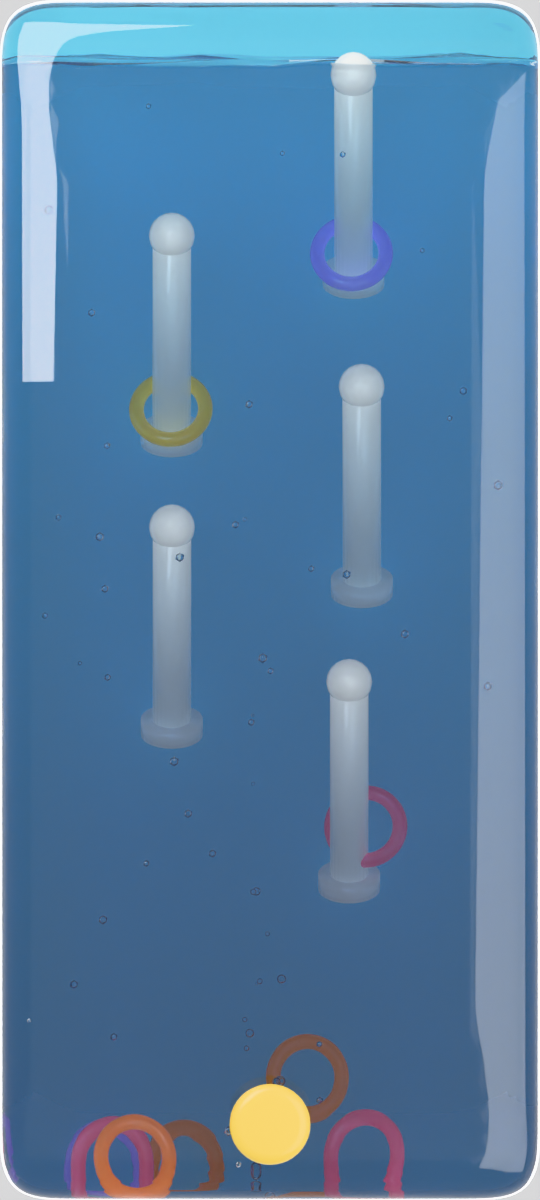
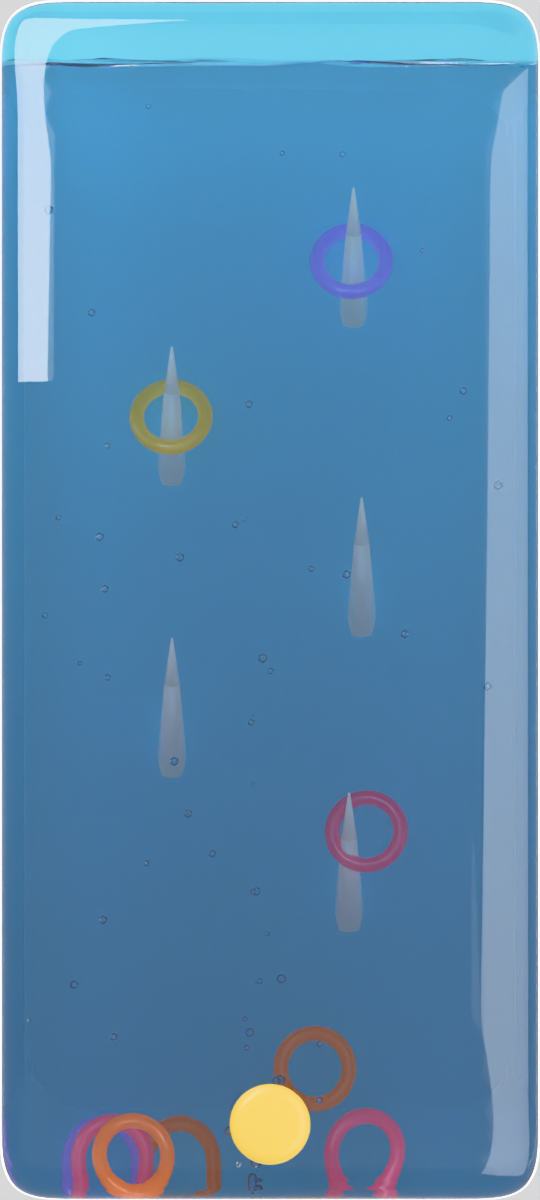
Make the pegs slim spikes instead of posts with knobs on
The knob had a job — it was what a ring had to climb over to leave by the
front — but a taper does that job better and does not look like that. A ring
dropped over a point slides down until the shaft is as wide as its hole and
stops there, so nothing needs a bulb on the end, and landing gets much
easier: the target grows as the ring descends instead of having to be
cleared in one go. Measured over a loop, the board went from changing twice
to changing eight times.

The first attempt was a single cone from base to point, and it was worse
than what it replaced. Only the fat end is thick enough to see through the
water, so each peg read as a squat blob with a needle above it that nobody
could make out. So the profile is two segments: near-parallel for the first
two thirds, which is what makes the whole length visible, and the taper
confined to the last third, which is what makes it read as pointed.

Much thinner with it. The base is 0.58 of a ring's hole where the old shaft
was 0.72 and the old collar 1.16, so the widest part of a peg is now half
what it was, and the length comes down with the chamber depth that pays for
it. Rings seat near the base rather than a third of the way up.

--hook-fit and --hook-grip are gone; --hook-base, --hook-point and
--hook-seat replace them. All three are still expressed against the ring's
hole, because all three are really statements about the ring.

Seam still closes to 0.7mm and 0.0 degrees, the --shell path still builds,
[…]

diff --git a/blender/water_ring_toy.py b/blender/water_ring_toy.py
@@ -130,7 +130,7 @@ def parse_args(argv: list[str] | None = None) -> argparse.Namespace:
     case.add_argument("--height", type=float, default=0.0,
                       help="case height in metres (Z); 0 derives it from the "
                            "render aspect so the case fills the frame")
-    case.add_argument("--thickness", type=float, default=0.80,
+    case.add_argument("--thickness", type=float, default=0.62,
                       help="case depth in metres (Y). It is what limits how "
                            "long the pegs can be, so a shallow toy has short "
                            "pegs whatever else you set")
@@ -189,19 +189,20 @@ def parse_args(argv: list[str] | None = None) -> argparse.Namespace:
                       help="ring stock radius in metres")
     play.add_argument("--hooks", type=int, default=5,
                       help="pegs to land rings on")
-    play.add_argument("--hook-fit", type=float, default=0.72,
-                      help="peg shaft radius as a fraction of a ring's hole. "
-                           "This is the slop in the joint, and it is what "
-                           "decides whether a seated ring stays seated: a "
-                           "thin peg in a wide hole lets the ring swing "
-                           "until its plane lines up with the shaft, and "
-                           "then it simply falls off")
-    play.add_argument("--hook-grip", type=float, default=0.86,
-                      help="knob radius as a fraction of a ring's hole. "
-                           "Under 1 a ring can be threaded on and worked "
-                           "back off; the closer to 1, the more a landing "
-                           "sticks and the less the board ever changes")
-    play.add_argument("--hook-length", type=float, default=1.90,
+    play.add_argument("--hook-base", type=float, default=0.58,
+                      help="peg radius where it is mounted, as a fraction of "
+                           "a ring's hole. It is the thickest the peg gets, "
+                           "so it is the one number that decides how heavy "
+                           "the pegs look")
+    play.add_argument("--hook-point", type=float, default=0.07,
+                      help="peg tip radius as a fraction of its base. Small "
+                           "is the point — a peg that ends in a bulb reads "
+                           "as a post, one that ends in a point reads as "
+                           "something to hook a ring over")
+    play.add_argument("--hook-seat", type=float, default=0.16,
+                      help="where a hooked ring sits along the peg, 0 at the "
+                           "base and 1 at the tip")
+    play.add_argument("--hook-length", type=float, default=1.05,
                       help="peg length as a fraction of the chamber depth. "
                            "Over 1 is fine and usually right: the peg leans "
                            "up, so most of its length is height rather than "
@@ -468,44 +469,63 @@ def ring_mesh(name: str, radius: float, tube: float,
 # module constant because two places need to agree on it: the peg that is
 # built with it, and the seat a ring is placed at, which has to start clear
 # of it.
-COLLAR_DEPTH = 0.9
+# The peg's profile: a shaft that narrows gently to a waist, then a spike
+# from there to the point. A single cone from base to point does not work —
+# only the fat end is thick enough to see through the water, so the peg
+# reads as a squat blob with a needle above it that nobody can make out.
+# Keeping most of the length near-parallel is what makes the whole peg
+# visible, and confining the taper to the last third is what makes it read
+# as pointed.
+HOOK_WAIST = 0.66
+HOOK_WAIST_R = 0.5
 
 
-def hook_post(name: str, shaft_r: float, length: float, knob_r: float,
-              collar_r: float) -> bpy.types.Object:
-    """A peg: collar at the back wall, shaft toward the camera, knob on top.
+def hook_profile(args, t: float) -> float:
+    """Peg radius at `t` along its length, as a fraction of its base."""
+    t = min(1.0, max(0.0, t))
+    if t <= HOOK_WAIST:
+        return 1.0 + (HOOK_WAIST_R - 1.0) * (t / HOOK_WAIST)
+    reach = (t - HOOK_WAIST) / (1.0 - HOOK_WAIST)
+    return max(args.hook_point, HOOK_WAIST_R * (1.0 - reach))
 
-    Origin sits at the collar, and the post runs along -Y — toward the
-    viewer — because that is the axis a ring floating in the screen plane
-    can actually be threaded along.
+
+def hook_post(name: str, args, base_r: float,
+              length: float) -> bpy.types.Object:
+    """A peg: a slim shaft coming to a point, running along -Y.
+
+    Along -Y — toward the viewer — because that is the axis a ring floating
+    in the screen plane can be threaded along.
+
+    A point rather than a knob, and the taper does the knob's job better. A
+    ring dropped over the tip slides down until the shaft is as wide as its
+    hole, so the peg holds a ring without a bulb on the end, and it is far
+    easier to land on: the target grows as the ring descends instead of
+    having to be cleared in one go.
     """
+    waist_r = base_r * HOOK_WAIST_R
+    shaft_len = length * HOOK_WAIST
+    spike_len = length - shaft_len
     parts = []
 
-    bpy.ops.mesh.primitive_cylinder_add(
-        radius=collar_r, depth=shaft_r * COLLAR_DEPTH, vertices=28,
-        location=(0.0, -shaft_r * COLLAR_DEPTH * 0.5, 0.0),
+    bpy.ops.mesh.primitive_cone_add(
+        radius1=base_r, radius2=waist_r, depth=shaft_len, vertices=24,
+        location=(0.0, -shaft_len * 0.5, 0.0),
         rotation=(math.radians(90.0), 0.0, 0.0))
     parts.append(bpy.context.active_object)
 
-    bpy.ops.mesh.primitive_cylinder_add(
-        radius=shaft_r, depth=length, vertices=24,
-        location=(0.0, -length * 0.5, 0.0),
+    bpy.ops.mesh.primitive_cone_add(
+        radius1=waist_r, radius2=base_r * args.hook_point, depth=spike_len,
+        vertices=24, location=(0.0, -shaft_len - spike_len * 0.5, 0.0),
         rotation=(math.radians(90.0), 0.0, 0.0))
-    parts.append(bpy.context.active_object)
-
-    bpy.ops.mesh.primitive_uv_sphere_add(
-        radius=knob_r, segments=20, ring_count=12,
-        location=(0.0, -length, 0.0))
     parts.append(bpy.context.active_object)
 
     obj = join(parts, name)
     activate(obj)
-    # Join keeps the *first* part's object rotation, and the first part was
-    # built with one. Left there it is the next thing overwritten when the
-    # peg is given its lean, and the post ends up pointing somewhere it was
-    # never meant to — which from a dead-on camera reads as a peg that is
-    # simply short. Baking it into the mesh leaves the object at identity,
-    # so the lean is the only rotation it has.
+    # Join keeps the first part's object rotation, and the first part was
+    # built with one. Baked into the mesh here so the object sits at
+    # identity and the lean is the only rotation it carries — left on the
+    # object, the lean overwrites it and the peg points somewhere it was
+    # never meant to.
     bpy.ops.object.transform_apply(location=False, rotation=True, scale=False)
     bpy.ops.object.shade_smooth()
     return obj
@@ -896,14 +916,15 @@ def ring_hole(args) -> float:
     return args.ring_radius - args.ring_tube * 2.0
 
 
-def hook_collar(args) -> float:
-    """Radius of the disc at the base of a peg.
+def hook_base(args) -> float:
+    """Peg radius where it is mounted — the thick end of the shaft."""
+    return ring_hole(args) * args.hook_base
 
-    Wider than the ring's hole by construction: it is what stops a ring
-    walking off the back of the peg, and a collar narrower than the hole is
-    not a stop, it is a ramp.
-    """
-    return ring_hole(args) * 1.16
+
+def hook_radius_at(args, inner: Vector, along: float) -> float:
+    """Peg radius a distance `along` from the base."""
+    return hook_base(args) * hook_profile(
+        args, along / max(1e-6, hook_length(args, inner)))
 
 
 def hook_mount(args, inner: Vector) -> float:
@@ -916,7 +937,7 @@ def hook_mount(args, inner: Vector) -> float:
     described as floating on would do.
     """
     lean_up = math.sin(math.radians(args.hook_tilt))
-    return inner.y * 0.5 - hook_collar(args) * lean_up - inner.y * 0.02
+    return inner.y * 0.5 - hook_base(args) * lean_up - inner.y * 0.02
 
 
 def hook_length(args, inner: Vector) -> float:
@@ -940,10 +961,13 @@ def hook_length(args, inner: Vector) -> float:
     # knob poking out through the front glass, which the render will happily
     # show you.
     base = hook_mount(args, inner)
-    # A ring's full thickness of clear water ahead of the knob, plus half
+    # A ring's full thickness of clear water ahead of the tip, plus half
     # again: a ring has to fit *entirely* in front of a peg to drift across
     # it, and a clamp that only leaves its centre room lets it pass through.
-    room = (base + inner.y * 0.5 - hole * args.hook_grip
+    # The tip is a point, so it costs almost nothing here — which is most of
+    # why a spike can be longer than a post with a bulb on it.
+    room = (base + inner.y * 0.5
+            - hole * args.hook_base * args.hook_point
             - args.ring_tube * 3.0)
     return min(wanted, max(inner.y * 0.2, room / lean))
 
@@ -982,15 +1006,10 @@ def build_hooks(args, built: dict, fill_z: float) -> list[bpy.types.Object]:
     """
     inner = built["interior"]
     length = hook_length(args, inner)
-    hole = ring_hole(args)
-    # Every diameter here comes off the ring's hole, because every one of
-    # them is really a statement about the ring. The knob is what a ring has
-    # to climb over to leave by the front; the collar is what stops it
-    # walking off the back — and a collar narrower than the hole is not a
-    # stop at all, it is a ramp.
-    shaft = hole * args.hook_fit
-    knob = hole * args.hook_grip
-    collar = hook_collar(args)
+    # Both radii come off the ring's hole, because both are really
+    # statements about the ring: the base is what a ring sliding down the
+    # taper jams against, and the point is what it drops over on the way on.
+    base_r = hook_base(args)
     # The pegs sit against the back wall, which is the deepest water in
     # the chamber; a plain white plastic reads as charcoal from there.
     material = simple_material("ringtoy_hook", HOOK_COLOUR, 0.22, 0.35)
@@ -1002,7 +1021,7 @@ def build_hooks(args, built: dict, fill_z: float) -> list[bpy.types.Object]:
 
     hooks = []
     for i, (x, z) in enumerate(hook_layout(args, inner, fill_z)):
-        post = hook_post(f"Ringtoy_Hook_{i}", shaft, length, knob, collar)
+        post = hook_post(f"Ringtoy_Hook_{i}", args, base_r, length)
         post.location = (x, back, z)
         post.rotation_euler = (tilt, 0.0, 0.0)
         post.data.materials.append(material)
@@ -1048,7 +1067,7 @@ def build_rings(args, built: dict, fill_z: float,
                                                  args.hook_hang),
                                    rng.uniform(-0.10, 0.10),
                                    rng.uniform(-0.06, 0.06))
-            ring.location = hang_point(args, hook)
+            ring.location = hang_point(args, hook, inner)
         else:
             ring.location = (
                 rng.uniform(-1.0, 1.0) * inner.x * 0.32,
@@ -1525,22 +1544,25 @@ def drift_field(args, p: Vector, phase: float) -> Vector:
     ))
 
 
-def hang_point(args, hook: bpy.types.Object,
+def hang_point(args, hook: bpy.types.Object, inner: Vector,
                offset: Vector | None = None) -> Vector:
     """Where a ring sits once it is on a peg.
 
-    Down the shaft until the collar stops it, and hanging by the inside of
-    its hole — which is what a ring on a peg does, and is a good deal lower
-    than centred on the peg.
+    Some way down the taper — `--hook-seat` — and hanging by the inside of
+    its hole against the cone, which is what a ring on a peg does and is a
+    good deal lower than centred on it. The hang is whatever slack is left
+    between the hole and the cone at that height, so a ring seated low on a
+    fat part of the taper barely hangs at all and one seated high swings.
     """
     axis = hook.matrix_world.to_3x3() @ Vector((0.0, -1.0, 0.0))
     hole = ring_hole(args)
-    shaft = hole * args.hook_fit
+    along = hook_length(args, inner) * args.hook_seat
     base = Vector(hook.location) + (offset or Vector((0.0, 0.0, 0.0)))
-    seat = base + axis * (shaft * COLLAR_DEPTH + args.ring_tube * 1.7)
+    seat = base + axis * along
     down = Vector((0.0, 0.0, -1.0))
     down = (down - axis * down.dot(axis)).normalized()
-    return seat + down * (hole - shaft) * 0.8
+    slack = max(0.0, hole - hook_radius_at(args, inner, along))
+    return seat + down * slack * 0.8
 
 
 def simulate_rings(args, built: dict) -> None:
@@ -1584,7 +1606,6 @@ def simulate_rings(args, built: dict) -> None:
     dt = 1.0 / max(1, args.fps)
     radius, tube = args.ring_radius, args.ring_tube
     hole = ring_hole(args)
-    shaft = hole * args.hook_fit
     peg_length = hook_length(args, inner)
     floor = -inner.z * 0.5
 
@@ -1614,7 +1635,7 @@ def simulate_rings(args, built: dict) -> None:
     # a peg it has never been told about.
     for entry in state:
         for index, hook in enumerate(hooks):
-            if (entry["p"] - hang_point(args, hook)).length < tube:
+            if (entry["p"] - hang_point(args, hook, inner)).length < tube:
                 entry["hook"] = index
                 break
 
@@ -1637,7 +1658,8 @@ def simulate_rings(args, built: dict) -> None:
 
             if entry["hook"] is not None:
                 hook = hooks[entry["hook"]]
-                target = hang_point(args, hook, offsets[entry["hook"]])
+                target = hang_point(args, hook, inner,
+                                    offsets[entry["hook"]])
                 # A press strong enough to lift the ring off the peg is a
                 # press strong enough to take it off; anything less only
                 # rocks it, which is what the toy does too.
@@ -1700,10 +1722,11 @@ def simulate_rings(args, built: dict) -> None:
                     continue
                 flat = Vector((p.x - near.x, 0.0, p.z - near.z))
                 gap = flat.length
-                if gap <= hole or gap >= radius + shaft:
+                thick = hook_radius_at(args, inner, along)
+                if gap <= hole or gap >= radius + thick:
                     continue
                 entry["v"] += flat * (
-                    (radius + shaft - gap) / gap * 3.0) * dt
+                    (radius + thick - gap) / gap * 3.0) * dt
 
         for index, entry in enumerate(state):
             entry["p"] = entry["p"] + entry["v"] * dt
@@ -1728,7 +1751,8 @@ def simulate_rings(args, built: dict) -> None:
                     for hook_i, hook in enumerate(hooks):
                         if any(other["hook"] == hook_i for other in state):
                             continue
-                        target = hang_point(args, hook, offsets[hook_i])
+                        target = hang_point(args, hook, inner,
+                                            offsets[hook_i])
                         # Caught on what the camera sees: the peg has to be
                         # inside the ring's hole on screen, and the ring has
                         # to be near enough in depth to be threaded on it.

diff --git a/blender/WATER-RING-TOY.md b/blender/WATER-RING-TOY.md
@@ -17,8 +17,7 @@ trip through the UI.
 ![A frame from the loop, thirteen frames after a press](../docs/screenshots/water-ring-toy.png)
 
 Above: thirteen frames into a press. Bubbles are still coming off the nozzle
-over the button, rings hang on two of the five pegs, and the pink ring is the
-one this press has just taken off its peg.
+over the button, and three of the five pegs are holding a ring.
 
 It is built on [`liquid_shaker.py`](./liquid_shaker.py) and imports its plan
 curve, pillow loft, fill-line boolean and render plumbing directly rather than
@@ -106,15 +105,15 @@ in the one dimension that is scarce — which is why `--hook-length` can exceed
 1.0 and the default leans as far as 62°.
 
 What limits them is the chamber, not the flag. `hook_length()` clamps to what
-fits: measured from where the peg is actually mounted, counting the knob on
-the end, and leaving a full ring's thickness of clear water ahead of the tip
-so a ring can still float past in front of one — which is how a ring lines up
-with a peg in the first place. Past that the pegs stop being pegs and become a
-wall. If you want taller pegs than you are getting, the flag to reach for is
-`--thickness`: depth is the budget the length is drawn from.
+fits: measured from where the peg is actually mounted, counting the tip, and
+leaving a full ring's thickness of clear water ahead of it so a ring can still
+float past in front of one — which is how a ring lines up with a peg in the
+first place. Past that the pegs stop being pegs and become a wall. If you want
+taller pegs than you are getting, the flag to reach for is `--thickness`:
+depth is the budget the length is drawn from.
 
 The pegs are mounted forward of the back wall rather than on it, because the
-collar is perpendicular to the peg and swings back through the wall once the
+base cap is perpendicular to the peg and swings back through the wall once the
 peg leans. They also drift — `--hook-bob` — because a wallpaper is looked at
 for a long time and a board that is perfectly rigid behind moving water reads
 as a painted backdrop. The float is computed by one shared function so the
@@ -126,11 +125,25 @@ face-on to a leaning peg starts the sim intersecting it — and nothing needs it
 now. On a peg leaning 62° a square ring is seen almost edge-on, and gravity
 would hang it much closer to flat anyway.
 
-**Peg proportions come off the ring, not off the peg.** `--hook-fit` is the
-shaft as a fraction of the ring's hole and is the slop in the joint;
-`--hook-grip` is the knob, which is what a ring has to climb over to leave by
-the front. The collar that stops it leaving by the back is wider than the hole
-by construction — a collar narrower than the hole is not a stop, it is a ramp.
+**A peg is a slim shaft that comes to a point**, not a post with a knob on
+the end, and the taper does the knob's job better: a ring dropped over the tip
+slides down until the shaft is as wide as its hole and stops there. It is far
+easier to land on than a bulb, because the target grows as the ring descends
+instead of having to be cleared in one go, and the board is visibly livelier
+for it.
+
+The profile matters as much as the proportions. A single cone from base to
+point does not work: only the fat end is thick enough to see through the
+water, so the peg reads as a squat blob with a needle above it that nobody can
+make out. So the shaft stays near-parallel for its first two thirds — that is
+what makes the whole length visible — and the taper is confined to the last
+third, which is what makes it read as pointed.
+
+`--hook-base` is the radius where it is mounted, as a fraction of the ring's
+hole, and it is the one number that decides how heavy the pegs look;
+`--hook-point` is the tip; `--hook-seat` is where along the peg a hooked ring
+comes to rest. Every one of them is expressed against the ring, because every
+one of them is really a statement about the ring.
 
 ## How the loop closes
 
